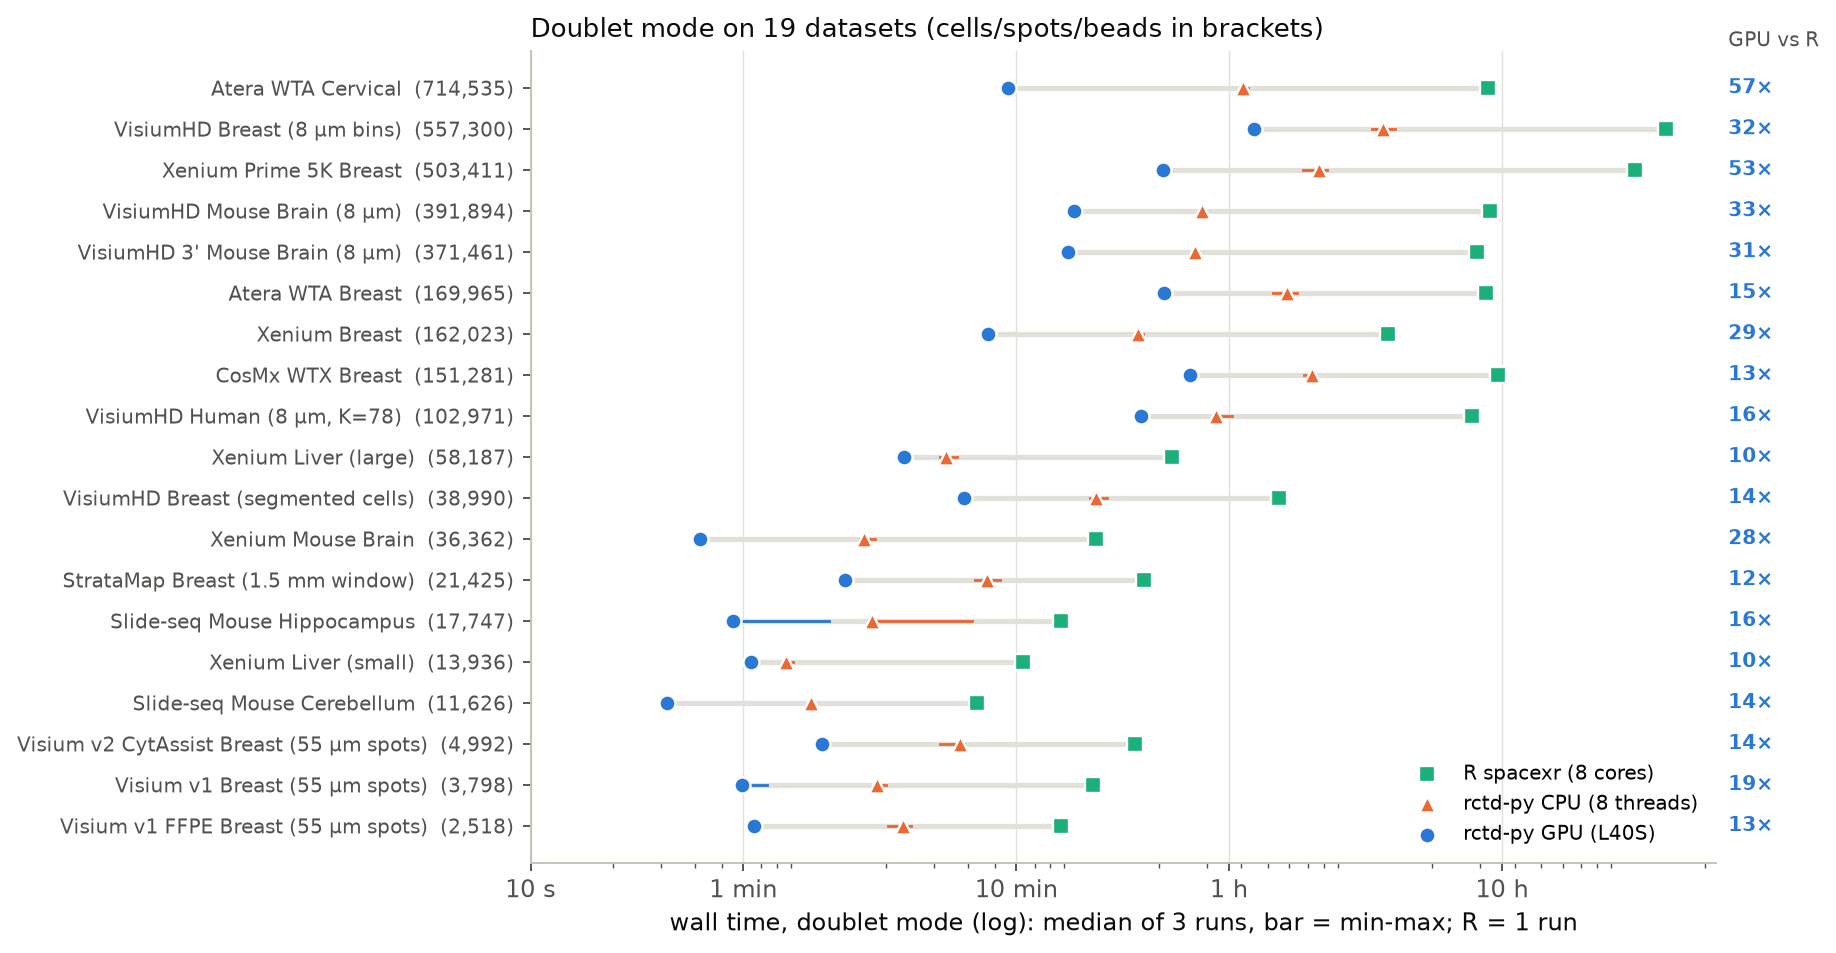
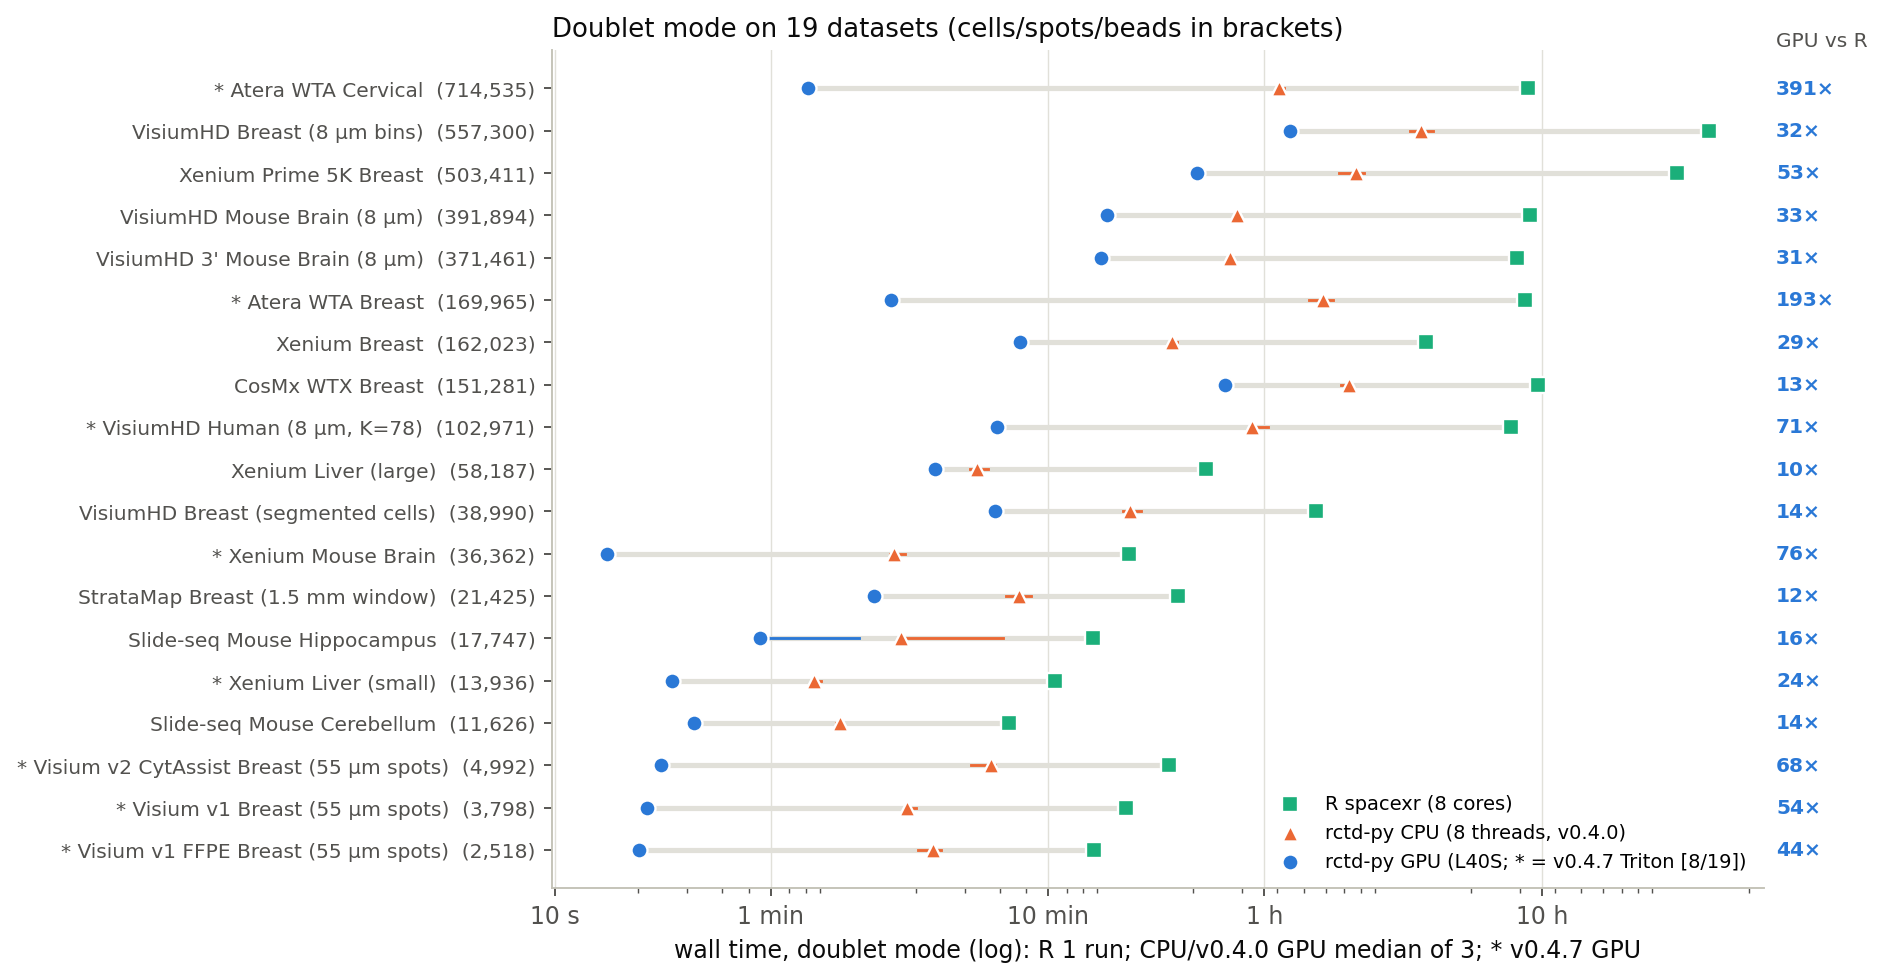
docs: update GPU benchmark plots and tables for v0.4.7

diff --git a/docs/benchmarks.md b/docs/benchmarks.md
@@ -4,8 +4,7 @@ rctd-py against R spacexr on 19 datasets from eight platforms (Xenium, Xenium Pr
 Atera, Visium v1, v1 FFPE and v2 CytAssist, Visium HD probe-based and 3', Slide-seq and StrataMap),
 from 2,518 to 714,535 cells, spots or beads, each run in all three modes.
 
-On one GPU, rctd-py is 10-57x faster than R in doublet mode (median 16x), 5-119x in full mode and
-5-21x in multi mode. On 8 CPU threads, without a GPU, it is 3.7-14x faster than R in doublet mode.
+On one GPU, rctd-py is 10-391x faster than R in doublet mode (median 32x across all 19 datasets; 24-391x, median 70x on the 8 datasets re-measured with v0.4.7), 10-260x in full mode and 5-89x in multi mode. On 8 CPU threads, without a GPU, it is 3.7-14x faster than R in doublet mode (v0.4.0).
 
 ![Doublet mode: R spacexr, rctd-py CPU and rctd-py GPU wall time on 19 datasets](benchmark.png)
 
@@ -19,63 +18,64 @@ On one GPU, rctd-py is 10-57x faster than R in doublet mode (median 16x), 5-119x
 - **Timed scope**: everything after the data is loaded. For rctd-py that is
   {class}`~rctd.Reference` plus {func}`~rctd.run_rctd`, sigma estimation included; for R,
   `Reference()`, `SpatialRNA()`, `create.RCTD()` and `run.RCTD()`.
-- **Runs**: an untimed warm-up on 2,000 cells fills the `torch.compile` cache, then rctd-py runs three
-  times and the tables give the median. R ran once per dataset and mode.
+- **Runs**: for the v0.4.0 baseline, an untimed warm-up on 2,000 cells fills the `torch.compile`
+  cache, then rctd-py runs three times and the tables give the median. The 8 datasets marked
+  `(v0.4.7)` (and `*` in the doublet figure) were re-measured as a single L40S GPU run on
+  `rctd-py 0.4.7` (`float64`, `batch_size=10000`, `UMI_min=20`) with fused Triton GPU kernels
+  enabled by default. R ran once per dataset and mode.
 - **Cells** are the pixels fitted: those with at least 20 UMIs, the same filter on both sides.
-- **Version**: rctd-py's development code after 0.3.9 (October 2026), before the R-parity changes
-  of 0.4.0. On the GPU it runs at the same speed as 0.3.9: the 39 GPU timings that 0.3.9 also has
-  (all but the two Slide-seq datasets) are within 6% of 0.3.9's. 0.4.0 adds 5-20 s per run for
-  sigma estimation (`N_fit` 1000 instead of 100); its exact box-QP solve costs no measurable time
-  (Visium HD K=78, doublet: 1,718 s vs 1,726 s). The four datasets added last (Visium HD 3' mouse
-  brain, Visium HD breast 8 µm bins, Visium v2 CytAssist and Visium v1 FFPE breast) were timed with
-  the 0.4.0 code.
+- **Version**: the 11 datasets without `(v0.4.7)` retain their v0.4.0 baseline GPU timings (their
+  intermediate benchmark inputs were removed from scratch storage after v0.4.0; specifically, the
+  pre-0.4.0 October 2026 run or v0.4.0 for the last four datasets added), and all CPU and R spacexr
+  timings across all 19 datasets are unchanged from that v0.4.0 benchmark. CPU performance itself
+  was also accelerated later in v0.4.5 and v0.4.6.
 
 ## Runtime
 
 | Dataset | Platform | Cells | Genes | K | Mode | R spacexr | rctd-py CPU | rctd-py GPU | GPU vs R |
 |---|---|---:|---:|---:|---|---:|---:|---:|---:|
-| Visium v1 FFPE Breast (55 µm spots) | Visium v1 FFPE | 2,518 | 16,781 | 40 | full | 14.8 min | 2.3 min | 37 s | 24x |
-| | | | | | doublet | 14.5 min | 3.8 min | 66 s | 13x |
-| | | | | | multi | 14.2 min | 4.1 min | 65 s | 13x |
-| Visium v1 Breast (55 µm spots) | Visium v1 | 3,798 | 17,628 | 40 | full | 12.8 min | 53 s | 21 s | 37x |
-| | | | | | doublet | 19.1 min | 3.1 min | 60 s | 19x |
-| | | | | | multi | 18.5 min | 4.1 min | 59 s | 19x |
-| Visium v2 CytAssist Breast (55 µm spots) | Visium v2 CytAssist | 4,992 | 17,215 | 40 | full | 15.9 min | 3.0 min | 44 s | 22x |
-| | | | | | doublet | 27.3 min | 6.2 min | 1.9 min | 14x |
-| | | | | | multi | 26.9 min | 6.7 min | 1.8 min | 15x |
+| Visium v1 FFPE Breast (55 µm spots) (v0.4.7) | Visium v1 FFPE | 2,518 | 16,781 | 40 | full | 14.8 min | 2.3 min | 19 s | 45x |
+| | | | | | doublet | 14.5 min | 3.8 min | 20 s | 44x |
+| | | | | | multi | 14.2 min | 4.1 min | 22 s | 39x |
+| Visium v1 Breast (55 µm spots) (v0.4.7) | Visium v1 | 3,798 | 17,628 | 40 | full | 12.8 min | 53 s | 20 s | 38x |
+| | | | | | doublet | 19.1 min | 3.1 min | 21 s | 54x |
+| | | | | | multi | 18.5 min | 4.1 min | 25 s | 45x |
+| Visium v2 CytAssist Breast (55 µm spots) (v0.4.7) | Visium v2 CytAssist | 4,992 | 17,215 | 40 | full | 15.9 min | 3.0 min | 22 s | 43x |
+| | | | | | doublet | 27.3 min | 6.2 min | 24 s | 68x |
+| | | | | | multi | 26.9 min | 6.7 min | 30 s | 54x |
 | Slide-seq Mouse Cerebellum | Slide-seq V2 | 11,626 | 19,915 | 19 | full | 2.8 min | 46 s | 14 s | 12x |
 | | | | | | doublet | 7.2 min | 1.8 min | 32 s | 14x |
 | | | | | | multi | 6.2 min | 2.0 min | 27 s | 14x |
-| Xenium Liver (small) | Xenium (custom panel) | 13,936 | 376 | 45 | full | 5.1 min | 76 s | 59 s | 5x |
-| | | | | | doublet | 10.6 min | 86 s | 64 s | 10x |
-| | | | | | multi | 6.9 min | 1.7 min | 64 s | 6x |
+| Xenium Liver (small) (v0.4.7) | Xenium (custom panel) | 13,936 | 376 | 45 | full | 5.1 min | 76 s | 26 s | 12x |
+| | | | | | doublet | 10.6 min | 86 s | 26 s | 24x |
+| | | | | | multi | 6.9 min | 1.7 min | 29 s | 14x |
 | Slide-seq Mouse Hippocampus | Slide-seq V2 | 17,747 | 22,594 | 17 | full | 5.5 min | 73 s | 18 s | 18x |
 | | | | | | doublet | 14.5 min | 3.0 min | 55 s | 16x |
 | | | | | | multi | 12.2 min | 3.8 min | 47 s | 16x |
 | StrataMap Breast (1.5 mm window) | Illumina StrataMap | 21,425 | 16,016 | 40 | full | 16.4 min | 3.8 min | 67 s | 15x |
 | | | | | | doublet | 29.4 min | 7.8 min | 2.4 min | 12x |
 | | | | | | multi | 25.1 min | 8.0 min | 2.1 min | 12x |
-| Xenium Mouse Brain | Xenium (248-plex) | 36,362 | 242 | 22 | full | 4.9 min | 2.5 min | 36 s | 8x |
-| | | | | | doublet | 19.6 min | 2.8 min | 42 s | 28x |
-| | | | | | multi | 16.0 min | 3.1 min | 45 s | 21x |
+| Xenium Mouse Brain (v0.4.7) | Xenium (248-plex) | 36,362 | 242 | 22 | full | 4.9 min | 2.5 min | 16 s | 19x |
+| | | | | | doublet | 19.6 min | 2.8 min | 15 s | 76x |
+| | | | | | multi | 16.0 min | 3.1 min | 19 s | 50x |
 | VisiumHD Breast (segmented cells) | Visium HD | 38,990 | 17,585 | 40 | full | 36.4 min | 6.5 min | 1.9 min | 19x |
 | | | | | | doublet | 1.5 h | 19.6 min | 6.4 min | 14x |
 | | | | | | multi | 68.9 min | 26.5 min | 7.1 min | 10x |
 | Xenium Liver (large) | Xenium (custom panel) | 58,187 | 376 | 45 | full | 36.5 min | 5.3 min | 3.7 min | 10x |
 | | | | | | doublet | 37.1 min | 5.5 min | 3.9 min | 10x |
 | | | | | | multi | 20.9 min | 5.5 min | 3.9 min | 5x |
-| VisiumHD Human (8 µm, K=78) | Visium HD | 102,971 | 16,207 | 78 | full | 6.0 h | 22.8 min | 15.7 min | 23x |
-| | | | | | doublet | 7.8 h | 54.0 min | 28.6 min | 16x |
-| | | | | | multi | 4.5 h | 59.3 min | 25.6 min | 11x |
+| VisiumHD Human (8 µm, K=78) (v0.4.7) | Visium HD | 102,971 | 16,207 | 78 | full | 6.0 h | 22.8 min | 4.5 min | 80x |
+| | | | | | doublet | 7.8 h | 54.0 min | 6.5 min | 71x |
+| | | | | | multi | 4.5 h | 59.3 min | 5.2 min | 52x |
 | CosMx WTX Breast | CosMx (19k WTX) | 151,281 | 17,780 | 40 | full | 2.8 h | 23.5 min | 6.4 min | 26x |
 | | | | | | doublet | 9.7 h | 2.0 h | 43.2 min | 13x |
 | | | | | | multi | 5.7 h | 2.2 h | 33.9 min | 10x |
 | Xenium Breast | Xenium (313-plex) | 162,023 | 304 | 40 | full | 2.9 h | 26.3 min | 7.0 min | 24x |
 | | | | | | doublet | 3.8 h | 27.8 min | 7.9 min | 29x |
 | | | | | | multi | 46.6 min | 32.4 min | 7.7 min | 6x |
-| Atera WTA Breast | Atera (18k WTA) | 169,965 | 17,949 | 40 | full | 4.3 h | 29.8 min | 7.6 min | 34x |
-| | | | | | doublet | 8.7 h | 1.6 h | 34.6 min | 15x |
-| | | | | | multi | 5.3 h | 1.9 h | 33.3 min | 10x |
+| Atera WTA Breast (v0.4.7) | Atera (18k WTA) | 169,965 | 17,949 | 40 | full | 4.3 h | 29.8 min | 2.0 min | 128x |
+| | | | | | doublet | 8.7 h | 1.6 h | 2.7 min | 193x |
+| | | | | | multi | 5.3 h | 1.9 h | 3.6 min | 89x |
 | VisiumHD 3' Mouse Brain (8 µm) | Visium HD 3' (poly-A) | 371,461 | 19,327 | 22 | full | 4.7 h | 20.3 min | 5.6 min | 50x |
 | | | | | | doublet | 8.1 h | 45.0 min | 15.5 min | 31x |
 | | | | | | multi | 2.9 h | 55.3 min | 12.3 min | 14x |
@@ -88,14 +88,16 @@ On one GPU, rctd-py is 10-57x faster than R in doublet mode (median 16x), 5-119x
 | VisiumHD Breast (8 µm bins) | Visium HD | 557,300 | 17,585 | 40 | full | 30.2 h | 48.5 min | 26.5 min | 68x |
 | | | | | | doublet | 40.0 h | 3.7 h | 74.2 min | 32x |
 | | | | | | multi | not timed (2) | 4.1 h | 66.2 min | - |
-| Atera WTA Cervical | Atera (18k WTA) | 714,535 | 17,949 | 7 | full | 3.6 h | 7.9 min | 1.8 min | 119x |
-| | | | | | doublet | 8.9 h | 67.6 min | 9.4 min | 57x |
-| | | | | | multi | stopped (1) | 37.0 min | 8.9 min | - |
+| Atera WTA Cervical (v0.4.7) | Atera (18k WTA) | 714,535 | 17,949 | 7 | full | 3.6 h | 7.9 min | 50 s | 260x |
+| | | | | | doublet | 8.9 h | 67.6 min | 82 s | 391x |
+| | | | | | multi | stopped (1) | 37.0 min | 2.1 min | - |
 
-The largest gains are on the largest datasets: 31-57x in doublet mode on the five above 300,000 cells.
-The GPU's lead over rctd-py on CPU is smallest on the two Xenium liver datasets (376 genes, 45 cell
-types: 1.3-1.5x) and on Visium HD with 78 cell types (1.4-2.3x); on the other 16 datasets it is
-1.8-7.2x.
+The largest gains are on the large datasets: 31-391x in doublet mode on the five above 300,000 cells
+(31-53x on the four measured with v0.4.0; 391x on Atera WTA Cervical with v0.4.7), and 71-193x on
+VisiumHD Human (K=78) and Atera WTA Breast with v0.4.7. Against rctd-py on v0.4.0 CPU (8 threads),
+the GPU lead is 1.4x on Xenium Liver (large, v0.4.0, 376 genes, 45 types) and 1.8x on VisiumHD Breast
+(8 µm bins, v0.4.0 multi), 2.9-3.5x on Xenium Liver (small, v0.4.7), 5.1-11.4x on VisiumHD Human
+(K=78, v0.4.7), 15-36x on Atera WTA Breast (v0.4.7), and 9.5-50x on Atera WTA Cervical (v0.4.7).
 
 (1) R's multi mode stopped after 3.2 hours with `process_bead_multi: no cell types passed weight
 threshold on full mode`: when one pixel has no candidate type, R ends the whole run. rctd-py keeps
@@ -107,34 +109,37 @@ that pixel's highest-weight type and finishes (see {doc}`r_spacexr`).
 
 | Dataset | Cells | K | Peak VRAM | Peak RAM (GPU run) | Peak RAM (CPU run) |
 |---|---:|---:|---:|---:|---:|
-| Visium v1 FFPE Breast (55 µm spots) | 2,518 | 40 | 9.3 GiB | 3.6 GiB | 10 GiB |
-| Visium v1 Breast (55 µm spots) | 3,798 | 40 | 9.5 GiB | 4.1 GiB | 11 GiB |
-| Visium v2 CytAssist Breast (55 µm spots) | 4,992 | 40 | 9.5 GiB | 4.6 GiB | 11 GiB |
+| Visium v1 FFPE Breast (55 µm spots) (v0.4.7) | 2,518 | 40 | 0.6 GiB | 2.7 GiB | 10 GiB |
+| Visium v1 Breast (55 µm spots) (v0.4.7) | 3,798 | 40 | 0.8 GiB | 2.9 GiB | 11 GiB |
+| Visium v2 CytAssist Breast (55 µm spots) (v0.4.7) | 4,992 | 40 | 1.0 GiB | 3.0 GiB | 11 GiB |
 | Slide-seq Mouse Cerebellum | 11,626 | 19 | 7.2 GiB | 6.0 GiB | 8.2 GiB |
-| Xenium Liver (small) | 13,936 | 45 | 5.3 GiB | 5.0 GiB | 4.6 GiB |
+| Xenium Liver (small) (v0.4.7) | 13,936 | 45 | 0.7 GiB | 3.6 GiB | 4.6 GiB |
 | Slide-seq Mouse Hippocampus | 17,747 | 17 | 7.7 GiB | 6.6 GiB | 8.3 GiB |
 | StrataMap Breast (1.5 mm window) | 21,425 | 40 | 9.6 GiB | 8.1 GiB | 12 GiB |
-| Xenium Mouse Brain | 36,362 | 22 | 5.3 GiB | 3.9 GiB | 4.1 GiB |
+| Xenium Mouse Brain (v0.4.7) | 36,362 | 22 | 0.6 GiB | 2.7 GiB | 4.1 GiB |
 | VisiumHD Breast (segmented cells) | 38,990 | 40 | 11 GiB | 13 GiB | 14 GiB |
 | Xenium Liver (large) | 58,187 | 45 | 5.3 GiB | 5.1 GiB | 4.9 GiB |
-| VisiumHD Human (8 µm, K=78) | 102,971 | 78 | 12 GiB | 25 GiB | 25 GiB |
+| VisiumHD Human (8 µm, K=78) (v0.4.7) | 102,971 | 78 | 7.8 GiB | 9.8 GiB | 25 GiB |
 | CosMx WTX Breast | 151,281 | 40 | 15 GiB | 40 GiB | 40 GiB |
 | Xenium Breast | 162,023 | 40 | 5.6 GiB | 4.6 GiB | 12 GiB |
-| Atera WTA Breast | 169,965 | 40 | 16 GiB | 45 GiB | 45 GiB |
+| Atera WTA Breast (v0.4.7) | 169,965 | 40 | 15 GiB | 15 GiB | 45 GiB |
 | VisiumHD 3' Mouse Brain (8 µm) | 371,461 | 22 | 14 GiB | 67 GiB | 68 GiB |
 | VisiumHD Mouse Brain (8 µm) | 391,894 | 22 | 14 GiB | 64 GiB | 64 GiB |
 | Xenium Prime 5K Breast | 503,411 | 40 | 13 GiB | 41 GiB | 42 GiB |
 | VisiumHD Breast (8 µm bins) | 557,300 | 40 | 29 GiB | 134 GiB | 136 GiB |
-| Atera WTA Cervical | 714,535 | 7 | 16 GiB | 112 GiB | 113 GiB |
+| Atera WTA Cervical (v0.4.7) | 714,535 | 7 | 23 GiB | 22 GiB | 113 GiB |
 
 Peak VRAM is the most PyTorch allocated in any of the three runs, over all modes. With
 `batch_size` fixed it depends mostly on the genes and cell types, but it still rises with the
-number of pixels on large whole-transcriptome datasets. On the small Xenium panels (242-376
-genes) the peak comes from multi mode; full and doublet mode stay under 1 GiB there. Lower
-`batch_size` to reduce it, or use `dtype="float32"`, which roughly halves it (0.50-0.62x in
-doublet mode on whole-transcriptome data). Peak RAM is the whole Python process, including reading the `.h5ad` files.
+number of pixels on large whole-transcriptome datasets. On small panels and moderate spot counts
+with v0.4.7, peak VRAM stays at 0.6-1.0 GiB (Visium v1/v2, Xenium small/brain) and 7.8 GiB on
+VisiumHD Human (103k bins, K=78, `float64`, `batch_size=10000`). On `Atera WTA Cervical` (714k
+cells), v0.4.7's slabbed pairwise Triton scoring temporarily peaks at 23 GiB at `batch_size=10000`
+before dropping host RAM to 22 GiB. Lower `batch_size` to reduce VRAM, or use `dtype="float32"`,
+which roughly halves it (0.50-0.62x in doublet mode on whole-transcriptome data). Peak RAM is the
+whole Python process, including reading the `.h5ad` files.
 
-These peaks predate 0.4.1, which lowers GPU memory without changing results at the same
-`batch_size`: multi mode on Xenium now peaks at 945 MiB instead of 5,378 MiB, and on Visium HD (103k bins) at
-9.4 GB instead of 12.1 GB (float64, `batch_size=10000`). In full mode, `stream_gpu` also keeps the
-count matrix off the GPU (see {doc}`installation`).
+The 11 unmarked datasets above still show v0.4.0 VRAM peaks, which predate 0.4.1's memory reductions
+(Xenium multi mode dropped from 5,378 MiB to 945 MiB, and Visium HD 103k bins from 12.1 GiB to
+9.4 GiB in 0.4.1 and 7.8 GiB in 0.4.7). In full mode, `stream_gpu` also keeps the count matrix
+off the GPU (see {doc}`installation`).

diff --git a/.claude/skills/rctd-py/SKILL.md b/.claude/skills/rctd-py/SKILL.md
@@ -5,7 +5,7 @@ description: GPU-accelerated Python RCTD cell type deconvolution for spatial tra
 
 # rctd-py: GPU-Accelerated Spatial Deconvolution
 
-Python reimplementation of RCTD (Cable et al., *Nature Biotechnology* 2022) with PyTorch GPU acceleration. 10-57× faster than R `spacexr` in doublet mode (19 datasets, one L40S vs 8 R cores) with the same calls as R `spacexr` wherever both pick the same sigma (99.0-99.9% of spot classes when sigma differs by 0.01-0.02, as between two R runs; 19 datasets, v0.4.0). Pure Python on PyTorch; runs on CPU or GPU, no R runtime required.
+Python reimplementation of RCTD (Cable et al., *Nature Biotechnology* 2022) with PyTorch GPU acceleration. 10-391× faster than R `spacexr` in doublet mode (19 datasets, one L40S vs 8 R cores: 8 re-measured with `v0.4.7` fused Triton GPU kernels, 11 at the `v0.4.0` baseline; `RCTD_TRITON=0` falls back to PyTorch) with the same calls as R `spacexr` wherever both pick the same sigma (99.0-99.9% of spot classes when sigma differs by 0.01-0.02, as between two R runs; 19 datasets, v0.4.0). Pure Python on PyTorch; runs on CPU or GPU, no R runtime required.
 
 ## When to use
 
